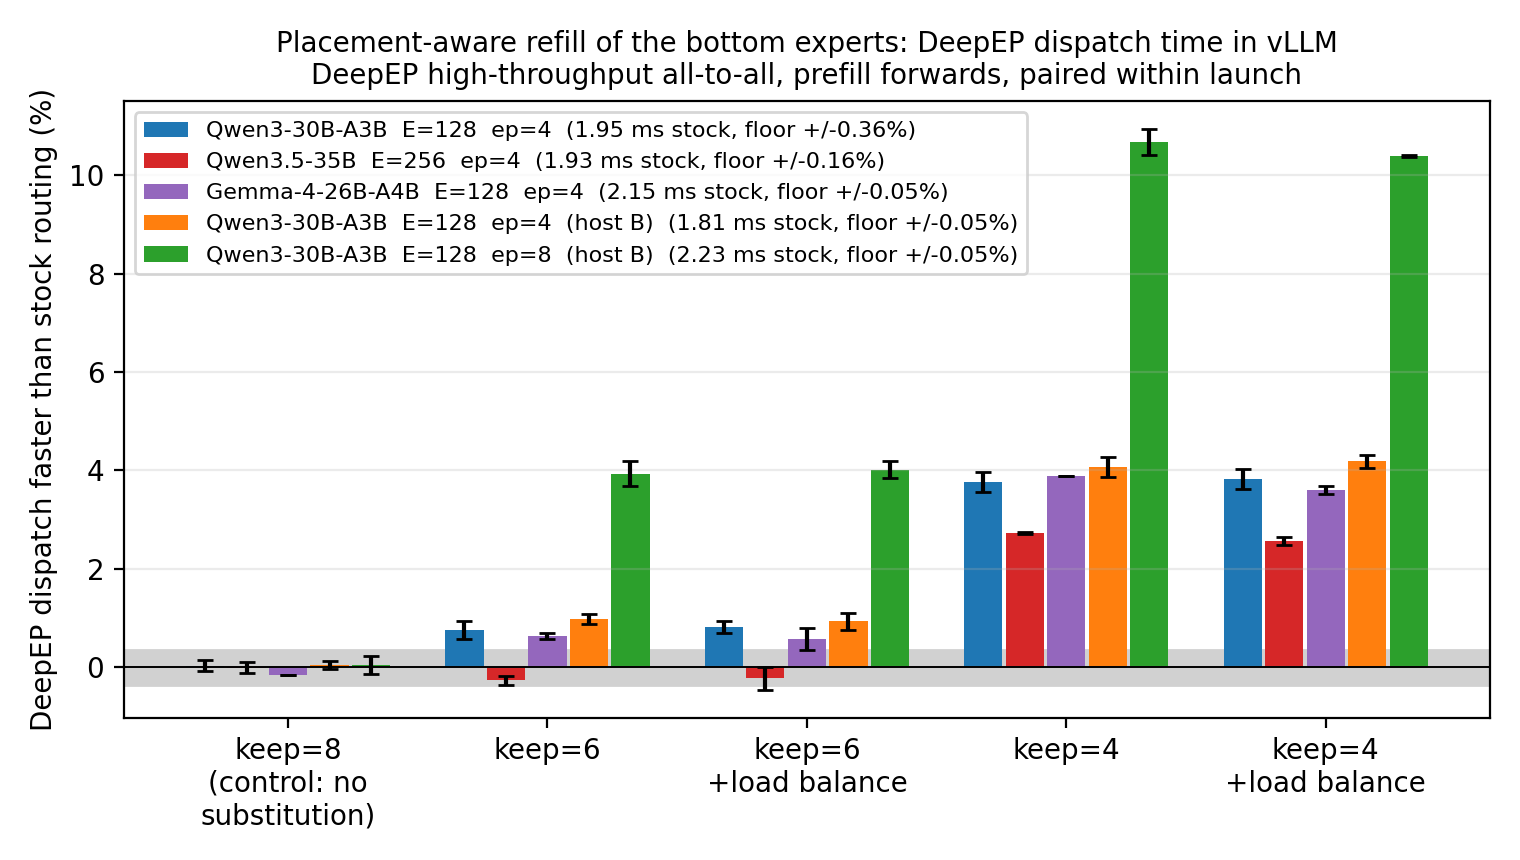
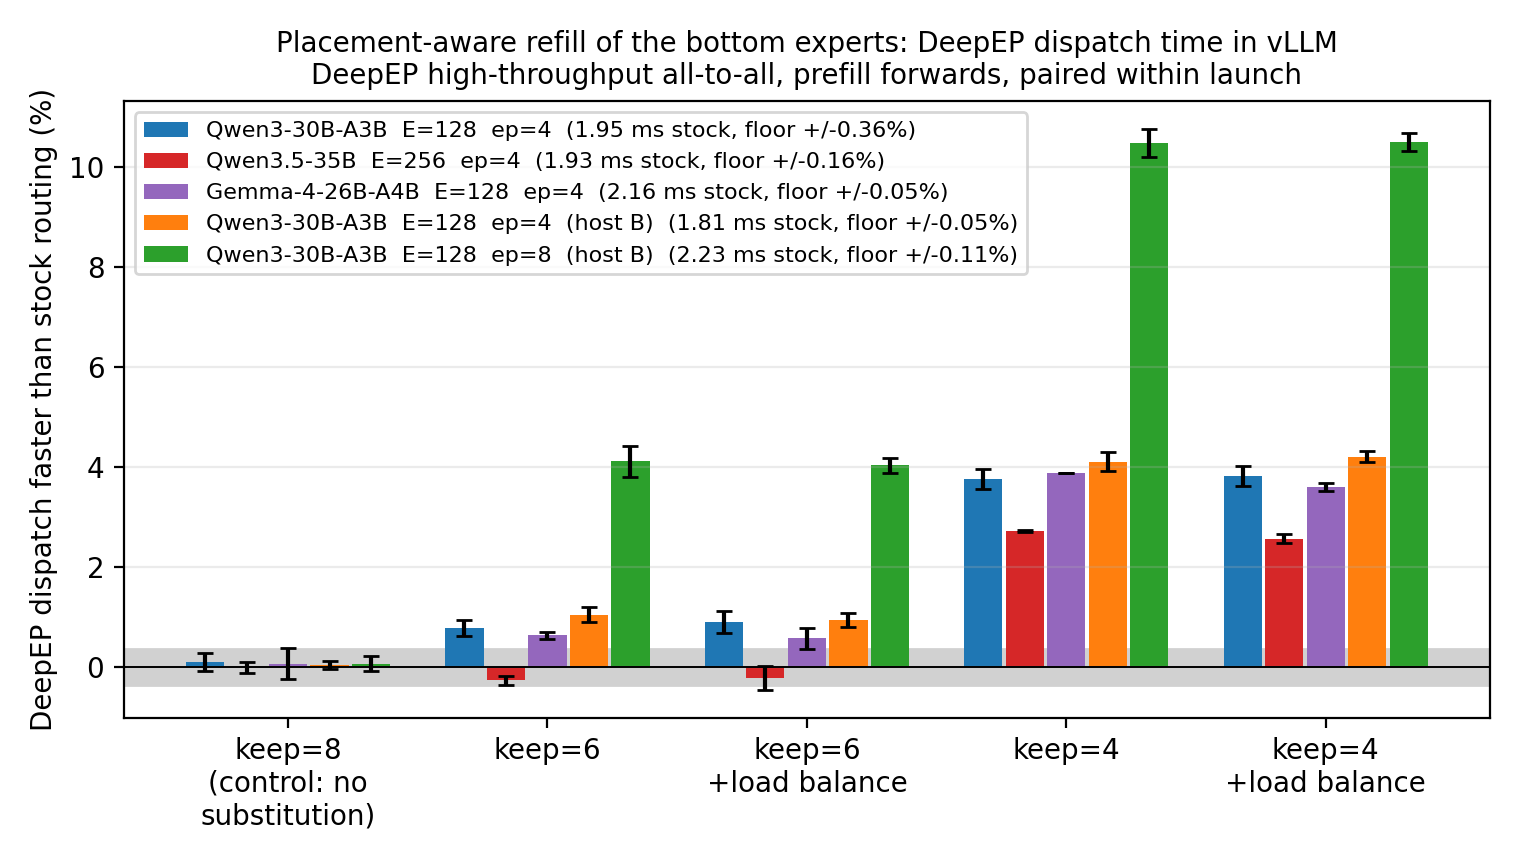
Fill every cell of the dispatch table and match the prose to it
Row 1's keep=4 cells and row 3's control now average multiple launches, and
the ep=8 row carries four launches at each full-substitution arm. The claimed
ranges follow the regenerated tables: dispatch +2.6% to +10.5% at keep=4, the
control at -0.0% to +0.1%, and the whole-layer load-balance arm positive on
all five rows.

diff --git a/README.md b/README.md
@@ -195,22 +195,22 @@ the zero-substitution control: the kernel runs and selects nothing different.
 <!-- disptime -->
 | model | stock ms / deepep dispatch | tokens / forward | floor | keep=8 (control: no substitution) | keep=6 | keep=6 +load balance | keep=4 | keep=4 +load balance |
 |---|---|---|---|---|---|---|---|---|
-| Qwen3-30B-A3B  E=128  ep=4 | 1.95 | 16384 | +/-0.36% | **+0.0%** x4 | **+0.8%** x4 | **+0.8%** x4 | **+3.8%** x3 | **+3.8%** x2 |
+| Qwen3-30B-A3B  E=128  ep=4 | 1.95 | 16384 | +/-0.36% | **+0.1%** x5 | **+0.8%** x5 | **+0.9%** x5 | **+3.8%** x3 | **+3.8%** x2 |
 | Qwen3.5-35B  E=256  ep=4 | 1.93 | 16384 | +/-0.16% | **-0.0%** x3 | **-0.3%** x2 | **-0.2%** x3 | **+2.7%** x2 | **+2.6%** x3 |
-| Gemma-4-26B-A4B  E=128  ep=4 | 2.15 | 16384 | +/-0.05% | **-0.2%** x1 | **+0.6%** x3 | **+0.6%** x2 | **+3.9%** x1 | **+3.6%** x2 |
-| Qwen3-30B-A3B  E=128  ep=4  (host B) | 1.81 | 16384 | +/-0.05% | **+0.0%** x3 | **+1.0%** x3 | **+0.9%** x3 | **+4.1%** x3 | **+4.2%** x3 |
-| Qwen3-30B-A3B  E=128  ep=8  (host B) | 2.23 | 16384 | +/-0.05% | **+0.0%** x3 | **+3.9%** x3 | **+4.0%** x5 | **+10.7%** x2 | **+10.4%** x2 |
+| Gemma-4-26B-A4B  E=128  ep=4 | 2.16 | 16384 | +/-0.05% | **+0.1%** x2 | **+0.6%** x3 | **+0.6%** x2 | **+3.9%** x1 | **+3.6%** x2 |
+| Qwen3-30B-A3B  E=128  ep=4  (host B) | 1.81 | 16384 | +/-0.05% | **+0.0%** x4 | **+1.0%** x4 | **+0.9%** x4 | **+4.1%** x4 | **+4.2%** x4 |
+| Qwen3-30B-A3B  E=128  ep=8  (host B) | 2.23 | 16384 | +/-0.11% | **+0.1%** x5 | **+4.1%** x5 | **+4.0%** x7 | **+10.5%** x4 | **+10.5%** x4 |
 <!-- /disptime -->
 
 The numbers are the 16384-token prefill bucket, `x`n is how many independent launches each cell
 averages, and positive is faster. The floor is per row, because a cell is only ever divided by
 launches of its own tag: it is that row's widest base-against-base spread, halved. Four things
 make this the rule rather than the instrument. The full substitution budget, `keep=4`, is faster
-on every row and every family, from +2.6% to +10.7%. The zero-substitution control is not (-0.2%
-to +0.0%), so the kernel's own cost is not what is being measured. The gain is monotone in the
-substitution budget, within every row. And the last two rows are the same model on the same host
-type at two world sizes, so the `ep` step can be read without crossing clusters: 0.9% becomes
-4.0% at `keep=6`, 4.2% becomes 10.4% at `keep=4`. That is what a fan-out saving has to do, since
+on every row and every family, from +2.6% to +10.5%. The zero-substitution control is not (-0.0%
+to +0.1%), so the kernel's own cost is not what is being measured. The step from `keep=6` to
+`keep=4` is many times the floor in all five rows. And the last two rows are the same model on the
+same host type at two world sizes, so the `ep` step can be read without crossing clusters: 0.9%
+becomes 4.0% at `keep=6`, 4.1% becomes 10.5% at `keep=4`. That is what a fan-out saving has to do, since
 a wider world gives a fixed `keep` more distinct ranks to avoid visiting.
 
 Timing dispatch separately is not a convenience. The whole-layer clock nets the byte saving
@@ -223,17 +223,17 @@ also what the load-balance term is for - adding the max-rank-load penalty to the
 <!-- moetime -->
 | model | stock ms / moe layer | tokens / forward | floor | keep=8 (control: no substitution) | keep=6 | keep=6 +load balance | keep=4 | keep=4 +load balance |
 |---|---|---|---|---|---|---|---|---|
-| Qwen3-30B-A3B  E=128  ep=4 | 8.08 | 16384 | +/-0.20% | **-0.6%** x6 | **-2.1%** x6 | **+1.9%** x4 | **-5.2%** x5 | **-1.6%** x3 |
+| Qwen3-30B-A3B  E=128  ep=4 | 8.08 | 16384 | +/-0.20% | **-0.6%** x7 | **-2.1%** x7 | **+2.0%** x5 | **-5.2%** x5 | **-1.6%** x3 |
 | Qwen3.5-35B  E=256  ep=4 | 7.00 | 16384 | +/-0.22% | **-0.4%** x5 | **-1.8%** x4 | **+0.5%** x3 | **-2.0%** x4 | **-1.1%** x3 |
-| Gemma-4-26B-A4B  E=128  ep=4 | 9.72 | 16384 | +/-0.14% | **-0.2%** x2 | **-1.9%** x4 | **+3.2%** x2 | **-5.2%** x2 | **-0.2%** x2 |
-| Qwen3-30B-A3B  E=128  ep=4  (host B) | 7.56 | 16384 | +/-0.08% | **-0.6%** x3 | **-2.3%** x3 | **+2.0%** x3 | **-5.4%** x3 | **-1.9%** x3 |
-| Qwen3-30B-A3B  E=128  ep=8  (host B) | 11.17 | 16384 | +/-0.52% | **-0.1%** x4 | **-3.1%** x3 | **+0.5%** x6 | **-6.0%** x2 | **-1.7%** x3 |
+| Gemma-4-26B-A4B  E=128  ep=4 | 9.72 | 16384 | +/-0.14% | **-0.3%** x3 | **-1.9%** x4 | **+3.2%** x2 | **-5.2%** x2 | **-0.2%** x2 |
+| Qwen3-30B-A3B  E=128  ep=4  (host B) | 7.56 | 16384 | +/-0.08% | **-0.6%** x4 | **-2.3%** x4 | **+1.9%** x4 | **-5.3%** x4 | **-1.9%** x4 |
+| Qwen3-30B-A3B  E=128  ep=8  (host B) | 11.17 | 16384 | +/-0.52% | **-0.1%** x6 | **-2.6%** x5 | **+0.4%** x8 | **-6.2%** x4 | **-1.5%** x5 |
 <!-- /moetime -->
 
 `keep=6` with the load-balance term is the only arm that clears the floor on the whole-layer
-clock, and it clears it on all five rows - +1.9%, +0.5%, +3.2%, +2.0%, +0.5%, against floors of
-0.08% to 0.52% - while the dispatch saving underneath is 10x to 200x its own floor at every
-budget. That is the split,
+clock, and it is positive on all five rows - +2.0%, +0.5%, +3.2%, +1.9%, +0.4% - clear of the
+floor on the four whose floor is under 0.25%, with the ep=8 row's +0.4% x8 inside its own wider
+0.52% floor - while the dispatch saving underneath is 10x to 200x its own floor at every budget. That is the split,
 and it is why both figures are here: `runs/disptime.png` measures the term the rule acts on,
 and `runs/moetime.png` measures what reaches the layer after the grouped GEMM has had its say.
 `keep=6 load_penalty=1` is therefore the arm to deploy, and it is the one the offline

diff --git a/runs/disptime.md b/runs/disptime.md
@@ -2,8 +2,8 @@ DeepEP dispatch time inside a running vLLM 0.31 engine on the DeepEP high-throug
 
 | model | stock ms / deepep dispatch | tokens / forward | floor | keep=8 (control: no substitution) | keep=6 | keep=6 +load balance | keep=4 | keep=4 +load balance |
 |---|---|---|---|---|---|---|---|---|
-| Qwen3-30B-A3B  E=128  ep=4 | 1.95 | 16384 | +/-0.36% | **+0.0%** x4 | **+0.8%** x4 | **+0.8%** x4 | **+3.8%** x3 | **+3.8%** x2 |
+| Qwen3-30B-A3B  E=128  ep=4 | 1.95 | 16384 | +/-0.36% | **+0.1%** x5 | **+0.8%** x5 | **+0.9%** x5 | **+3.8%** x3 | **+3.8%** x2 |
 | Qwen3.5-35B  E=256  ep=4 | 1.93 | 16384 | +/-0.16% | **-0.0%** x3 | **-0.3%** x2 | **-0.2%** x3 | **+2.7%** x2 | **+2.6%** x3 |
-| Gemma-4-26B-A4B  E=128  ep=4 | 2.15 | 16384 | +/-0.05% | **-0.2%** x1 | **+0.6%** x3 | **+0.6%** x2 | **+3.9%** x1 | **+3.6%** x2 |
-| Qwen3-30B-A3B  E=128  ep=4  (host B) | 1.81 | 16384 | +/-0.05% | **+0.0%** x3 | **+1.0%** x3 | **+0.9%** x3 | **+4.1%** x3 | **+4.2%** x3 |
-| Qwen3-30B-A3B  E=128  ep=8  (host B) | 2.23 | 16384 | +/-0.05% | **+0.0%** x3 | **+3.9%** x3 | **+4.0%** x5 | **+10.7%** x2 | **+10.4%** x2 |
+| Gemma-4-26B-A4B  E=128  ep=4 | 2.16 | 16384 | +/-0.05% | **+0.1%** x2 | **+0.6%** x3 | **+0.6%** x2 | **+3.9%** x1 | **+3.6%** x2 |
+| Qwen3-30B-A3B  E=128  ep=4  (host B) | 1.81 | 16384 | +/-0.05% | **+0.0%** x4 | **+1.0%** x4 | **+0.9%** x4 | **+4.1%** x4 | **+4.2%** x4 |
+| Qwen3-30B-A3B  E=128  ep=8  (host B) | 2.23 | 16384 | +/-0.11% | **+0.1%** x5 | **+4.1%** x5 | **+4.0%** x7 | **+10.5%** x4 | **+10.5%** x4 |

diff --git a/runs/moetime.md b/runs/moetime.md
@@ -2,8 +2,8 @@ MoE layer time inside a running vLLM 0.31 engine on the DeepEP high-throughput a
 
 | model | stock ms / moe layer | tokens / forward | floor | keep=8 (control: no substitution) | keep=6 | keep=6 +load balance | keep=4 | keep=4 +load balance |
 |---|---|---|---|---|---|---|---|---|
-| Qwen3-30B-A3B  E=128  ep=4 | 8.08 | 16384 | +/-0.20% | **-0.6%** x6 | **-2.1%** x6 | **+1.9%** x4 | **-5.2%** x5 | **-1.6%** x3 |
+| Qwen3-30B-A3B  E=128  ep=4 | 8.08 | 16384 | +/-0.20% | **-0.6%** x7 | **-2.1%** x7 | **+2.0%** x5 | **-5.2%** x5 | **-1.6%** x3 |
 | Qwen3.5-35B  E=256  ep=4 | 7.00 | 16384 | +/-0.22% | **-0.4%** x5 | **-1.8%** x4 | **+0.5%** x3 | **-2.0%** x4 | **-1.1%** x3 |
-| Gemma-4-26B-A4B  E=128  ep=4 | 9.72 | 16384 | +/-0.14% | **-0.2%** x2 | **-1.9%** x4 | **+3.2%** x2 | **-5.2%** x2 | **-0.2%** x2 |
-| Qwen3-30B-A3B  E=128  ep=4  (host B) | 7.56 | 16384 | +/-0.08% | **-0.6%** x3 | **-2.3%** x3 | **+2.0%** x3 | **-5.4%** x3 | **-1.9%** x3 |
-| Qwen3-30B-A3B  E=128  ep=8  (host B) | 11.17 | 16384 | +/-0.52% | **-0.1%** x4 | **-3.1%** x3 | **+0.5%** x6 | **-6.0%** x2 | **-1.7%** x3 |
+| Gemma-4-26B-A4B  E=128  ep=4 | 9.72 | 16384 | +/-0.14% | **-0.3%** x3 | **-1.9%** x4 | **+3.2%** x2 | **-5.2%** x2 | **-0.2%** x2 |
+| Qwen3-30B-A3B  E=128  ep=4  (host B) | 7.56 | 16384 | +/-0.08% | **-0.6%** x4 | **-2.3%** x4 | **+1.9%** x4 | **-5.3%** x4 | **-1.9%** x4 |
+| Qwen3-30B-A3B  E=128  ep=8  (host B) | 11.17 | 16384 | +/-0.52% | **-0.1%** x6 | **-2.6%** x5 | **+0.4%** x8 | **-6.2%** x4 | **-1.5%** x5 |
